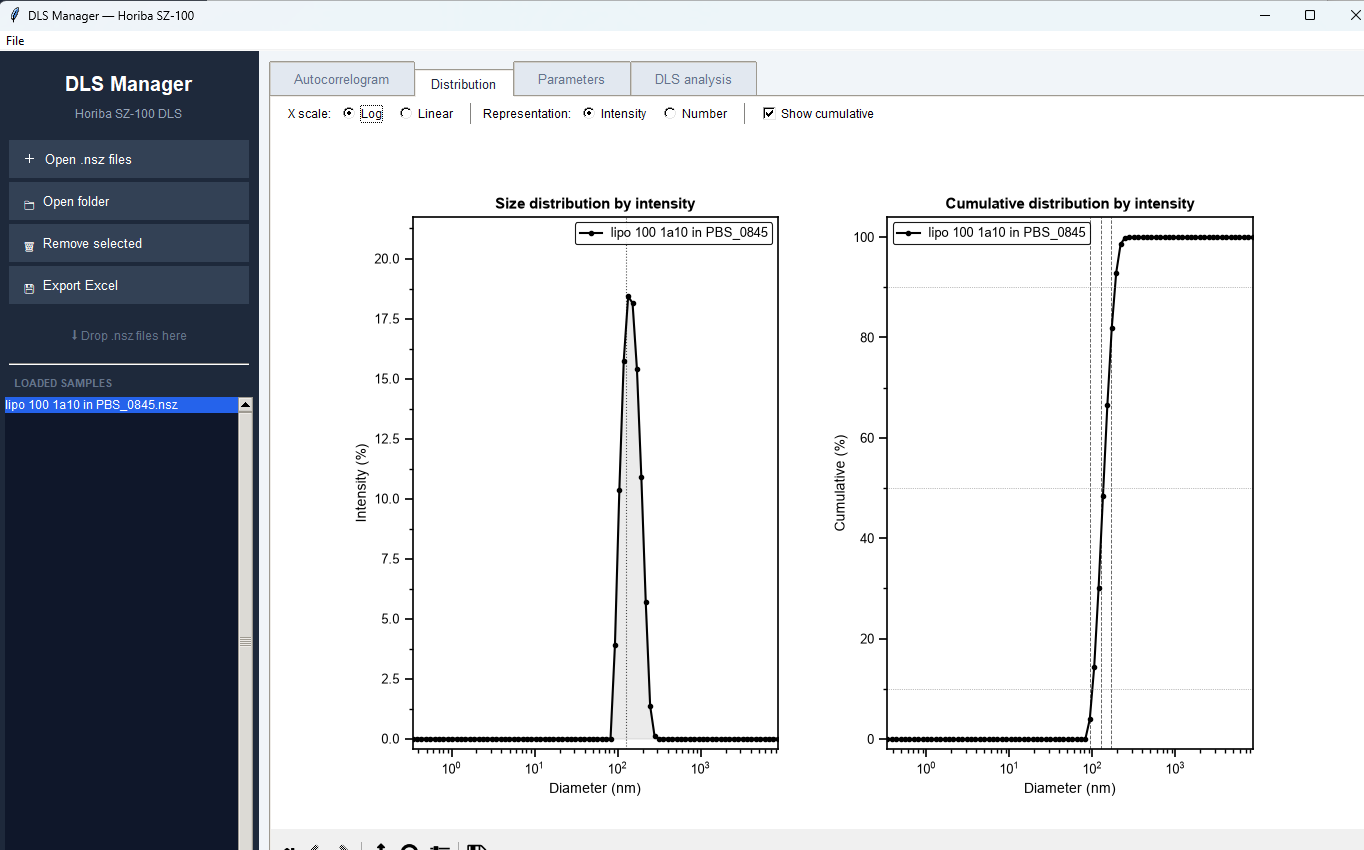
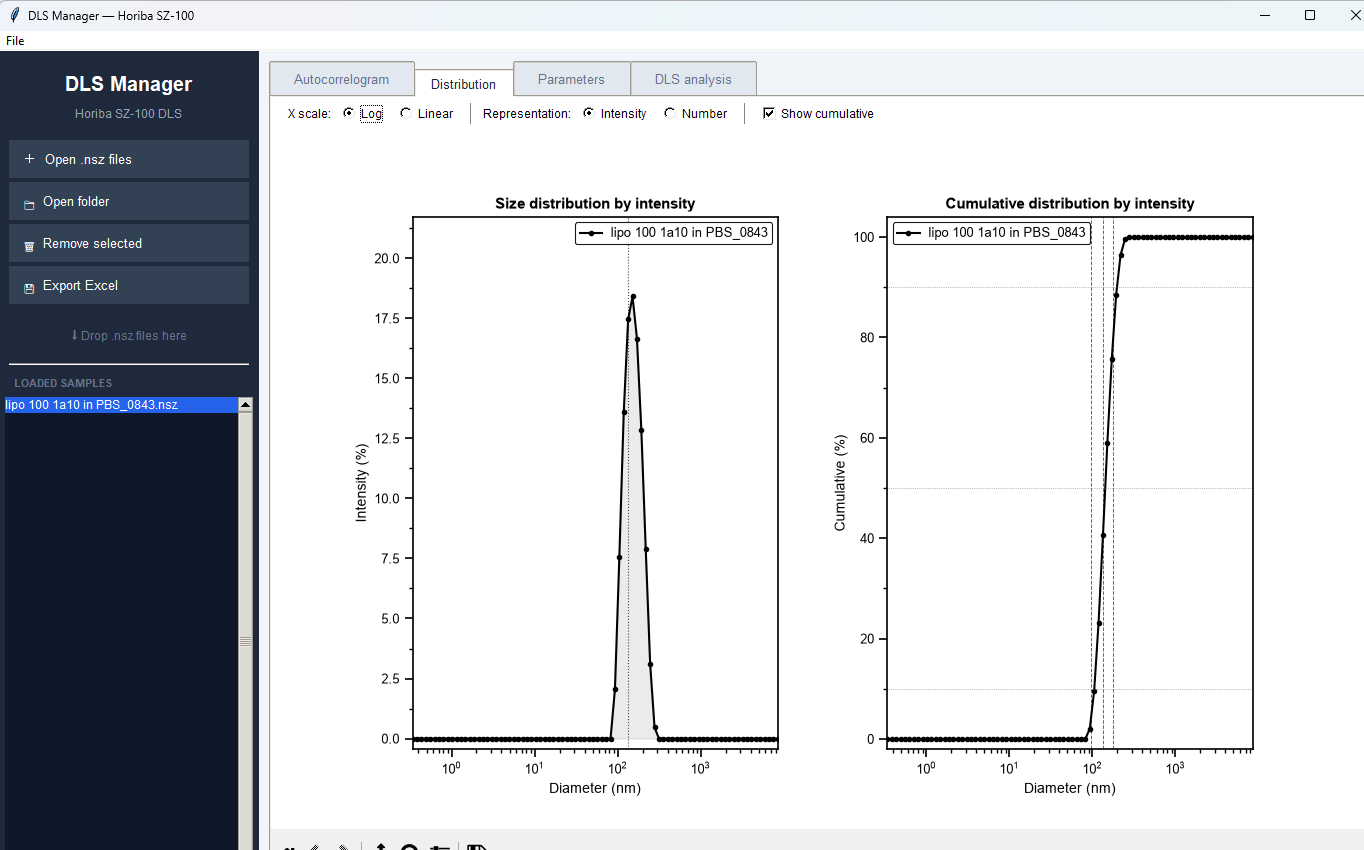
Align the example data on measurement 0843 and refresh the screenshots

Changed region(s): [[0.4311, 0.3671, 0.4927, 0.8565], [0.8006, 0.2753, 0.8314, 0.8565]]

diff --git a/CLAUDE.md b/CLAUDE.md
@@ -17,13 +17,13 @@ pythonw DLSManager.pyw [file.nsz ...]
 py -m unittest discover -s tests -v
 ```
 
-Sample data: `example data/` holds a software CSV (changed 2026-11-20 by Francesco to `lipo 100 1a10 in PBS_0845.csv`; gitignored:
-real data, never commit). **Its header names `..._0843.nsz`, not `_0845`**: the `.nsz` next to it is another replicate, so the
-tests (`find_sample()` in `tests/test_nsz_viewer.py`) read the `.nsz` named in the CSV and look for it next to the CSV, then in the
-`spettri di esempio` folders of LabSpectrumManager (where `_0843` is). Putting `lipo 100 1a10 in PBS_0843.nsz` into `example data/`
-would make the folder self-contained. The earlier sample (`lipo_bup_MLV_0minson_scattering_0729.nsz` + `_0731.csv`, June layout) is
-only in the Drive mirror's history. Tk tests need a screen; tests that need the sample are skipped without it. The three
-`screenshot*.png` are the real program with the `_0845` file (window grabbed with `CopyFromScreen`, cropped).
+Sample data: `example data/` holds `lipo 100 1a10 in PBS_0843.nsz` and the software CSV of the same measurement
+(`..._0843.csv`; gitignored: real data, never commit). On 2026-11-20 the folder had a CSV named `_0845` next to the `_0845` .nsz, but
+the CSV was of measurement 0843 (its header, its time 18:03:04 and all its values match the 0843 file, not 0845): Francesco
+replaced the pair with 0843 + its CSV. `find_sample()` in `tests/test_nsz_viewer.py` reads the .nsz named in the CSV (next to it, else in
+the `spettri di esempio` folders of LabSpectrumManager). The earlier sample (`lipo_bup_MLV_0minson_scattering_0729.nsz` + `_0731.csv`, June
+layout, PI 0.6) is gone from the folder; its results are described below. Tk tests need a screen; tests that need the sample are skipped
+without it. The three `screenshot*.png` are the real program with the 0843 file (window grabbed with `CopyFromScreen`, cropped).
 
 ## Architecture
 
